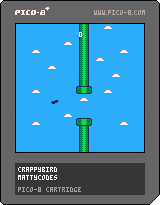
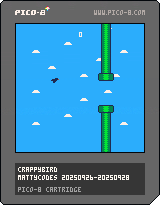
fixed collision box size from previous git error.

diff --git a/crappybird.js b/crappybird.js
@@ -68,11 +68,11 @@ var _cartdat=[
 0,0,0,0,0,0,0,0,0,0,0,0,0,0,0,0,0,16,0,0,0,0,0,0,0,0,0,0,0,0,0,0,0,0,0,0,0,0,0,0,0,0,0,0,0,0,0,0,0,0,0,0,0,0,0,0,0,0,0,0,0,0,0,0,0,0,0,0,0,0,0,0,0,0,0,0,0,0,0,0,0,0,0,0,0,16,0,0,0,0,0,0,0,0,0,0,0,0,0,0,0,0,0,0,0,0,0,0,0,0,0,0,0,0,0,0,0,0,0,0,0,0,0,0,0,0,0,0,0,0,0,0,0,0,0,0,0,0,0,0,0,0,0,0,0,0,0,0,0,0,0,0,0,16,0,0,0,0,0,0,0,0,0,0,0,0,0,0,0,0,0,0,0,0,0,0,0,0,0,0,0,0,0,0,0,0,0,0,0,0,0,0,0,0,0,0,0,0,0,0,0,0,0,0,0,0,0,0,0,0,0,0,0,0,0,0,0,0,0,0,0,16,0,0,0,0,0,0,0,0,0,0,0,0,0,0,0,0,0,0,0,0,0,0,0,0,0,0,0,0,0,0,0,0,0,0,
 0,0,0,0,0,0,0,0,0,0,0,0,0,0,0,0,0,0,0,0,0,0,0,0,0,0,0,0,0,0,0,0,0,16,0,0,0,0,0,0,0,0,0,0,0,0,0,0,0,0,0,0,0,0,0,0,0,0,0,0,0,0,0,0,0,0,0,0,0,0,0,0,0,0,0,0,0,0,0,0,0,0,0,0,0,0,0,0,0,0,0,0,0,0,0,0,0,0,0,0,0,16,0,0,0,0,0,0,0,0,0,0,0,0,0,0,0,0,0,0,0,0,0,0,0,0,0,0,0,0,0,0,0,0,0,0,0,0,0,0,0,0,0,0,0,0,0,0,0,0,0,0,0,0,0,0,0,0,0,0,0,0,0,0,0,0,0,0,0,16,0,0,0,0,0,0,0,0,0,0,0,0,0,0,0,0,0,0,0,0,0,0,0,0,0,0,0,0,0,0,0,0,0,0,0,0,0,0,0,0,0,0,0,0,0,0,0,0,0,0,0,0,0,0,0,0,0,0,0,0,0,0,0,0,0,0,0,16,0,0,0,0,0,0,0,0,0,0,0,0,0,0,0,0,0,0,
 0,0,0,0,0,0,0,0,0,0,0,0,0,0,0,0,0,0,0,0,0,0,0,0,0,0,0,0,0,0,0,0,0,0,0,0,0,0,0,0,0,0,0,0,0,0,0,0,0,16,0,0,0,0,0,0,0,0,0,0,0,0,0,0,0,0,0,0,0,0,0,0,0,0,0,0,0,0,0,0,0,0,0,0,0,0,0,0,0,0,0,0,0,0,0,0,0,0,0,0,0,0,0,0,0,0,0,0,0,0,0,0,0,0,0,0,0,16,0,0,0,0,0,0,0,0,0,0,0,0,0,0,0,0,0,0,0,0,0,0,0,0,0,0,0,0,0,0,0,0,0,0,0,0,0,0,0,0,0,0,0,0,0,0,0,0,0,0,0,0,0,0,0,0,0,0,0,0,0,0,0,0,0,0,0,16,0,0,0,0,0,0,0,0,0,0,0,0,0,0,0,0,0,0,0,0,0,0,0,0,0,0,0,0,0,0,0,0,0,0,0,0,0,0,0,0,0,0,0,0,0,0,0,0,0,0,0,0,0,0,0,0,0,0,0,0,0,0,0,0,0,0,0,16,0,0,
-0,112,120,97,13,142,4,117,235,193,226,205,79,112,243,11,4,47,113,246,241,213,225,35,110,120,128,240,21,130,48,125,131,238,248,87,200,239,57,167,56,41,57,171,57,106,196,136,103,45,8,132,28,184,240,6,65,157,215,209,68,114,255,204,204,68,85,53,207,240,10,117,216,52,51,93,57,19,149,15,16,53,69,117,210,77,109,103,0,171,116,79,208,143,77,248,33,104,39,196,131,114,241,176,219,182,78,91,17,13,207,198,96,215,78,180,178,161,43,3,97,100,135,11,131,147,196,67,130,168,121,131,110,192,89,238,145,10,147,21,117,77,49,21,38,154,225,205,150,222,161,217,18,14,111,94,228,15,49,100,158,192,60,91,91,198,214,27,88,29,232,71,170,119,202,148,198,105,159,169,137,9,165,240,56,71,224,92,190,149,43,83,43,51,182,226,137,60,249,181,53,80,14,41,147,127,190,17,37,255,255,200,141,255,46,22,196,214,191,145,133,161,190,219,80,79,148,107,143,42,138,238,250,127,203,39,171,174,234,140,58,64,67,226,84,245,136,76,53,102,78,11,30,250,79,178,
+0,112,120,97,13,151,4,119,235,193,226,205,79,112,243,11,4,47,113,246,241,213,225,35,110,120,128,240,21,130,48,125,131,238,248,87,200,239,57,167,56,41,57,171,57,106,196,136,103,45,8,132,28,184,240,6,65,157,215,209,68,114,255,204,204,68,85,53,207,240,10,117,216,52,51,93,57,19,149,15,16,53,69,117,210,77,109,103,0,171,116,79,208,143,77,248,33,104,39,196,131,114,241,176,219,182,78,91,17,13,207,198,96,215,78,180,178,161,43,3,97,100,135,11,131,147,196,67,130,168,121,131,110,192,89,238,145,10,147,21,117,77,49,21,38,154,225,205,150,222,161,217,18,14,111,94,228,15,49,100,158,192,60,91,91,198,214,27,88,29,232,71,170,119,202,148,198,105,159,169,137,9,165,240,56,71,224,92,190,149,43,83,43,51,182,226,137,60,249,181,53,80,14,41,147,127,190,17,37,255,255,200,141,255,46,22,196,214,191,145,133,161,190,219,80,79,148,107,143,42,138,238,250,127,203,39,171,174,234,140,58,64,67,226,84,245,136,76,53,102,78,11,30,250,79,178,
 50,122,144,86,153,122,12,43,189,69,178,55,124,161,169,166,163,225,202,105,107,77,99,185,65,163,14,236,76,140,205,37,67,131,75,75,67,150,87,188,105,191,209,165,114,114,181,27,9,111,180,222,222,64,217,169,70,76,123,235,57,20,231,116,169,213,109,38,244,68,180,200,115,100,122,100,235,35,33,193,193,245,64,83,84,136,86,24,254,212,14,18,34,114,178,74,161,2,179,174,172,82,232,169,27,18,226,119,18,245,166,167,138,161,235,164,109,236,127,182,74,227,115,86,24,201,145,67,127,124,69,86,85,149,254,120,103,119,150,130,126,66,176,163,219,152,24,146,24,135,144,125,36,244,4,246,37,153,118,106,36,101,254,213,69,175,62,79,109,111,217,45,17,248,168,52,76,11,157,103,209,75,155,54,171,150,37,37,55,2,241,168,122,75,164,96,120,166,217,106,96,33,60,198,153,74,60,163,225,233,149,122,86,231,59,77,246,251,220,205,185,246,65,99,119,172,86,83,171,230,199,106,99,253,76,10,75,204,138,199,191,170,121,162,227,83,215,184,91,33,97,194,51,193,212,90,
 178,54,178,91,169,17,111,14,200,186,232,132,222,29,6,51,130,63,214,42,231,167,38,223,66,48,68,196,99,178,205,102,214,154,149,40,44,230,171,129,96,161,44,166,203,174,140,186,153,166,210,227,21,19,219,92,220,218,18,227,167,239,164,77,44,207,189,177,205,40,26,118,151,156,65,208,247,11,217,173,195,179,130,253,149,102,167,168,121,199,198,134,48,33,224,246,149,181,29,181,230,129,116,84,212,204,102,27,69,83,20,90,238,112,247,194,168,255,211,200,202,168,254,77,42,138,236,46,13,79,182,75,26,101,174,26,24,27,40,43,239,103,110,173,16,106,8,150,86,180,232,33,61,210,247,130,138,129,142,120,6,18,9,114,40,133,63,69,161,21,254,200,145,71,146,156,69,156,104,246,79,120,226,1,86,2,5,244,255,153,83,88,149,66,255,31,161,240,105,162,103,33,9,52,209,255,120,31,233,118,177,172,136,126,137,49,106,136,163,234,4,201,47,193,240,163,44,36,195,127,233,163,87,90,60,250,232,161,189,240,136,243,71,216,134,241,67,4,250,203,231,225,193,192,112,11,
-248,159,210,245,127,105,37,28,147,155,68,20,186,61,219,111,110,12,180,94,227,239,48,180,14,34,13,97,81,18,229,78,212,16,15,62,136,63,100,24,110,177,255,171,159,82,27,114,35,49,137,236,84,225,172,44,57,6,166,218,173,160,152,143,86,100,115,183,38,36,194,98,229,98,230,9,27,94,202,124,180,231,195,57,63,14,200,220,195,71,137,31,147,72,21,103,201,115,120,34,94,132,11,255,255,71,223,30,218,229,174,235,88,184,252,255,255,127,27,86,204,44,169,87,254,255,255,45,228,10,110,34,229,132,53,202,46,205,103,135,209,50,188,66,243,129,53,113,44,168,57,51,78,248,193,163,225,110,119,170,170,219,85,147,26,32,17,129,173,98,19,66,195,163,243,238,147,131,19,2,161,123,72,188,127,51,18,143,65,239,195,9,63,74,60,38,51,62,108,252,216,248,114,65,182,39,159,168,183,26,88,17,236,70,54,157,151,36,131,70,43,147,193,141,77,113,111,149,208,202,104,85,53,41,23,170,18,254,228,90,162,129,150,104,174,18,126,86,70,43,180,68,19,53,109,185,
-29,241,245,169,124,9,227,83,146,23,158,195,43,158,63,101,140,21,169,187,106,49,16,195,107,133,237,171,236,149,37,171,64,33,254,147,227,197,157,47,76,78,12,78,173,6,241,250,244,216,246,100,114,71,147,12,38,73,164,240,46,69,124,220,121,70,115,238,166,214,75,224,255,221,129,241,33,27,27,92,30,148,101,67,93,217,180,137,24,180,230,60,89,93,60,154,243,144,25,132,169,49,153,47,21,145,51,132,198,111,153,225,64,102,92,119,0,0,0,0,0,0,0,0,0,0,0,0,0,0,0,0,0,0,0,0,0,0,0,0,0,0,0,0,0,0,0,0,0,0,0,0,0,0,0,0,0,0,0,0,0,0,0,0,0,0,0,0,0,0,0,0,0,0,0,0,0,0,0,0,0,0,0,0,0,0,0,0,0,0,0,0,0,0,0,0,0,0,0,0,0,0,0,0,0,0,0,0,0,0,0,0,0,0,0,0,0,0,0,0,0,0,0,0,0,0,0,0,0,0,0,0,0,0,0,0,0,0,0,0,0,0,0,0,0,0,0,0,0,0,0,0,0,0,0,0,
+248,159,210,245,127,105,37,28,147,155,68,20,186,61,219,111,110,12,180,94,227,239,48,180,14,34,13,97,81,18,229,78,212,16,15,62,136,63,100,24,110,177,255,171,159,82,27,114,35,49,137,236,84,225,172,44,57,6,166,218,173,160,152,143,86,100,115,183,38,36,194,98,229,98,230,9,27,94,202,124,180,231,195,57,63,14,200,220,195,71,137,31,147,72,21,103,201,115,120,34,94,132,11,255,255,71,223,30,218,229,174,235,88,184,252,255,255,127,27,86,204,44,169,146,15,225,242,255,255,95,69,87,130,19,41,39,172,81,118,105,62,59,204,152,225,85,156,15,181,137,99,65,214,25,118,194,15,48,13,119,187,83,85,221,174,172,212,0,146,8,108,21,155,52,26,30,193,119,159,28,156,16,40,222,67,235,253,155,209,122,12,122,31,78,248,81,235,49,153,241,97,227,199,198,151,11,250,61,249,68,189,213,80,139,96,55,178,233,188,36,25,52,90,153,12,110,108,170,124,171,132,86,70,171,170,73,185,80,149,240,39,215,18,13,180,68,115,149,240,179,50,90,161,37,154,200,
+106,235,238,136,175,79,238,75,33,159,218,188,20,29,94,21,253,73,100,172,104,222,85,139,129,42,94,171,112,95,137,175,44,89,37,11,241,159,64,47,238,124,97,114,98,112,106,53,136,215,167,199,182,39,147,59,154,100,48,73,34,133,119,73,227,227,206,51,154,115,55,181,94,2,255,239,14,158,15,217,216,0,244,160,44,27,234,202,166,77,196,160,53,231,9,237,226,209,156,135,204,32,85,141,233,125,169,136,156,33,52,126,203,12,7,50,227,186,3,0,0,0,0,0,0,0,0,0,0,0,0,0,0,0,0,0,0,0,0,0,0,0,0,0,0,0,0,0,0,0,0,0,0,0,0,0,0,0,0,0,0,0,0,0,0,0,0,0,0,0,0,0,0,0,0,0,0,0,0,0,0,0,0,0,0,0,0,0,0,0,0,0,0,0,0,0,0,0,0,0,0,0,0,0,0,0,0,0,0,0,0,0,0,0,0,0,0,0,0,0,0,0,0,0,0,0,0,0,0,0,0,0,0,0,0,0,0,0,0,0,0,0,0,0,0,0,0,0,0,0,0,0,0,0,0,0,
 0,0,0,0,0,0,0,0,0,0,0,0,0,0,0,0,0,0,0,0,0,0,0,0,0,0,0,0,0,0,0,0,0,0,0,0,0,0,0,0,0,0,0,0,0,0,0,0,0,0,0,0,0,0,0,0,0,0,0,0,0,0,0,0,0,0,0,0,0,0,0,0,0,0,0,0,0,0,0,0,0,0,0,0,0,0,0,0,0,0,0,0,0,0,0,0,0,0,0,0,0,0,0,0,0,0,0,0,0,0,0,0,0,0,0,0,0,0,0,0,0,0,0,0,0,0,0,0,0,0,0,0,0,0,0,0,0,0,0,0,0,0,0,0,0,0,0,0,0,0,0,0,0,0,0,0,0,0,0,0,0,0,0,0,0,0,0,0,0,0,0,0,0,0,0,0,0,0,0,0,0,0,0,0,0,0,0,0,0,0,0,0,0,0,0,0,0,0,0,0,0,0,0,0,0,0,0,0,0,0,0,0,0,0,0,0,0,0,0,0,0,0,0,0,0,0,0,0,0,0,0,0,0,0,0,0,0,0,0,0,0,0,0,0,0,0,0,0,0,0,0,0,0,0,0,0,
 0,0,0,0,0,0,0,0,0,0,0,0,0,0,0,0,0,0,0,0,0,0,0,0,0,0,0,0,0,0,0,0,0,0,0,0,0,0,0,0,0,0,0,0,0,0,0,0,0,0,0,0,0,0,0,0,0,0,0,0,0,0,0,0,0,0,0,0,0,0,0,0,0,0,0,0,0,0,0,0,0,0,0,0,0,0,0,0,0,0,0,0,0,0,0,0,0,0,0,0,0,0,0,0,0,0,0,0,0,0,0,0,0,0,0,0,0,0,0,0,0,0,0,0,0,0,0,0,0,0,0,0,0,0,0,0,0,0,0,0,0,0,0,0,0,0,0,0,0,0,0,0,0,0,0,0,0,0,0,0,0,0,0,0,0,0,0,0,0,0,0,0,0,0,0,0,0,0,0,0,0,0,0,0,0,0,0,0,0,0,0,0,0,0,0,0,0,0,0,0,0,0,0,0,0,0,0,0,0,0,0,0,0,0,0,0,0,0,0,0,0,0,0,0,0,0,0,0,0,0,0,0,0,0,0,0,0,0,0,0,0,0,0,0,0,0,0,0,0,0,0,0,0,0,0,0,
 0,0,0,0,0,0,0,0,0,0,0,0,0,0,0,0,0,0,0,0,0,0,0,0,0,0,0,0,0,0,0,0,0,0,0,0,0,0,0,0,0,0,0,0,0,0,0,0,0,0,0,0,0,0,0,0,0,0,0,0,0,0,0,0,0,0,0,0,0,0,0,0,0,0,0,0,0,0,0,0,0,0,0,0,0,0,0,0,0,0,0,0,0,0,0,0,0,0,0,0,0,0,0,0,0,0,0,0,0,0,0,0,0,0,0,0,0,0,0,0,0,0,0,0,0,0,0,0,0,0,0,0,0,0,0,0,0,0,0,0,0,0,0,0,0,0,0,0,0,0,0,0,0,0,0,0,0,0,0,0,0,0,0,0,0,0,0,0,0,0,0,0,0,0,0,0,0,0,0,0,0,0,0,0,0,0,0,0,0,0,0,0,0,0,0,0,0,0,0,0,0,0,0,0,0,0,0,0,0,0,0,0,0,0,0,0,0,0,0,0,0,0,0,0,0,0,0,0,0,0,0,0,0,0,0,0,0,0,0,0,0,0,0,0,0,0,0,0,0,0,0,0,0,0,0,0,
